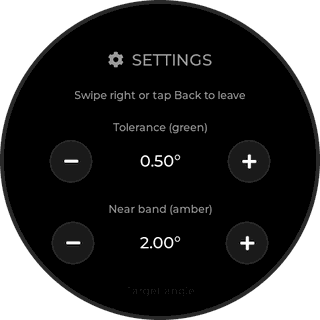
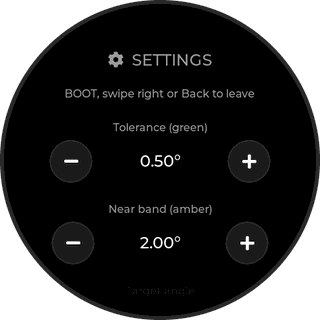
Document the BOOT button and the release path
Claude-Session: https://claude.ai/code/session_01YF7XT5Efzfgo2XwtGXLBEm

Changed region(s): [[0.1875, 0.2812, 0.8125, 0.3125]]

diff --git a/README.md b/README.md
@@ -40,7 +40,7 @@ training data (raw IMU and both microphones) for a future on-device model.
     points; steer it into the centre.
 - **Tolerance colours**: green within the tolerance (default 0.5°), amber
   within the near band (default 2.0°), white outside.
-- **Tap to zero** on the screen or in the app. Yaw comes from the gyro and
+- **Hold 1 s to zero** on the screen, or use the app. Yaw comes from the gyro and
   drifts, so the screen warns you to re-zero after 60 s (adjustable).
 - **Two calibrations**: a 6-position sensor (accelerometer) calibration and a
   mount calibration that finds the drill axis while you roll the drill with
@@ -49,7 +49,7 @@ training data (raw IMU and both microphones) for a future on-device model.
   optional power-off after a time in sleep; power-off at low battery. A
   running drill held still keeps the screen on, for up to 3 min after the
   last touch or movement.
-- **On-device settings** (hold 1 s) for tolerance, near band, target angle,
+- **On-device settings** (BOOT button) for tolerance, near band, target angle,
   the crosshair's direction (*Invert dot*), brightness, timeouts and
   Bluetooth.
 - **Bluetooth LE**: live angle and status notifications, settings as JSON,
@@ -167,7 +167,8 @@ for `DrillBalancer v...`, `QMI8658 6DOF 448.4 Hz` and `boot done` in the log.
 
 ### 2. Build and install the app
 
-There is no release APK yet; build it from source. Needs the Android SDK
+Install the APK from [Releases](https://github.com/Tropaion/Drill_Balancer/releases/latest),
+or build it from source. That needs the Android SDK
 (platform `android-37`, build-tools 36) and any JDK 17+. Set `sdk.dir` in
 `app/local.properties` or set `ANDROID_HOME`. Enable USB debugging on the
 phone; `adb devices` must list it.
@@ -180,12 +181,12 @@ cd app
 ### 3. First use
 
 1. Fix the board to the back of the drill, screen towards you.
-2. **Sensor calibration**: hold the screen for 1 s to open Settings, tap
+2. **Sensor calibration**: press the BOOT button to open Settings, tap
    *Calibrate sensor*, hold the device still on each of its six sides, then
    tap *Finish*.
 3. **Mount calibration**: put the bit in a hole, tap *Calibrate mount*,
    *Start*, roll the drill slowly at least 45° each way, then *Finish*.
-4. Hold the drill on your mark and **tap the screen to zero**. Swipe to
+4. Hold the drill on your mark and **hold the screen for 1 s to zero**. Swipe to
    change the mode.
 5. In the app, tap your `DrillBalancer-XXXX`. On the first change it asks
    you to pair: enter the 6-digit code shown on the device.
@@ -198,16 +199,17 @@ Full guide: [Getting Started](https://github.com/Tropaion/Drill_Balancer/wiki/Ge
 
 | Gesture | Level screen | Settings |
 |---|---|---|
-| Tap | Zero (shows "ZERO") | Press a button |
+| Hold 1 s | Zero (shows "ZERO") | Long press on a stepper repeats |
 | Swipe left / right | Next / previous mode | Right: back |
-| Hold 1 s | Open Settings | Long press on a stepper repeats |
-| Touch while dimmed | Only wakes the screen | Only wakes the screen |
+| Tap | Nothing | Press a button |
+| BOOT button | Open Settings | Back |
+| Touch or BOOT while dimmed | Only wakes the screen | Only wakes the screen |
 | Touch during a recorded take | Logged in the recording, nothing else; hold the REC pill 2 s to stop the take | Same |
 
 **Modes**
 - *Wall*: the dot is where the bit points: above the centre when it points
   too high, right of it when it has turned right since the zero (left/right
-  needs a zero; until then the screen says "Tap to zero for left/right").
+  needs a zero; until then the screen says "Hold to zero for left/right").
   Below: the error with a chevron for up or down, then the yaw; "re-zero"
   appears 60 s after the zero.
 - *Floor / ceiling*: the dot is a bubble and moves towards the higher side;
@@ -359,7 +361,6 @@ More: [Development and Testing](https://github.com/Tropaion/Drill_Balancer/wiki/
       come from the simulator so far)
 - [ ] An on-device model for the drilling phases, trained on the recorded
       data
-- [ ] Signed release APK
 
 Details: [Roadmap](https://github.com/Tropaion/Drill_Balancer/wiki/Roadmap).
 

diff --git a/app/README.md b/app/README.md
@@ -50,12 +50,50 @@ lint's "newer Gradle available" warning is expected.
 ```sh
 ./gradlew assembleDebug          # build/outputs/apk/debug/DrillBalancer-debug.apk
 ./gradlew installDebug           # build and install on a phone with USB debugging on
-./gradlew assembleRelease        # unsigned release APK (no signing config yet)
+./gradlew assembleRelease        # release APK, unsigned without the release key
 ./gradlew lintDebug
 ```
 
 For `installDebug`, enable *Developer options → USB debugging* on the
 phone, connect it and accept the RSA prompt. `adb devices` must list it.
+
+## Updates from GitHub
+
+The app asks GitHub for the latest release when it opens or comes back, and
+when a device connects (`update/`). The request has no login, and the data
+repo's token never reaches it. The answer is kept for 10 minutes. Offline or
+rate limited, nothing shows.
+
+- **Firmware:** after connecting, a notice on Live and Device says when the
+  release is newer than the board. *Download* fetches the image and opens the
+  Firmware screen with it loaded; the update starts from there as usual.
+- **App:** a notice on Connect and Device says when the release is newer than
+  the app. *Download* fetches the APK and opens Android's installer, which
+  asks first. The first time, Android sends you to *Install unknown apps*.
+  Debug builds never show this notice: their signature cannot update a
+  release install.
+- *Dismiss* hides a version until a newer one is out. Nothing starts without
+  a tap, and nothing interrupts a recording session.
+
+## Releases
+
+Versions live in `../VERSION`, for the firmware and the app. To release:
+
+1. Change `VERSION`, push to `main` and wait for CI.
+2. Tag that commit: `git tag vMAJOR.MINOR.PATCH && git push origin vMAJOR.MINOR.PATCH`.
+
+`.github/workflows/release.yml` then publishes `drillbalancer-<version>.bin`,
+the image CI built and tested for that commit, and a signed
+`drillbalancer-<version>.apk`. It refuses a tag that differs from `VERSION`, a
+commit that is not on `main`, and a commit without green CI. MINOR and PATCH
+stay below 100, because `versionCode` is `MAJOR * 10000 + MINOR * 100 + PATCH`.
+
+The signing key is four Actions secrets: `DB_RELEASE_KEYSTORE_B64`,
+`DB_RELEASE_STORE_PASSWORD`, `DB_RELEASE_KEY_ALIAS` and
+`DB_RELEASE_KEY_PASSWORD`. A signed build on a PC goes through
+`tools/ci/release_apk.sh` with the same names, or `DB_RELEASE_KEYSTORE` as a
+path, because that script keeps the passwords out of Gradle's caches. A lost
+key means every later update needs an uninstall.
 
 ## First connection and pairing
 

diff --git a/firmware/README.md b/firmware/README.md
@@ -94,8 +94,8 @@ All test code builds with `-Wall -Wextra -Werror -Wdouble-promotion -Wshadow`.
 ### UI preview
 
 `test_host/ui_preview` renders every screen to a PNG with the real UI
-sources, then runs touch and flow checks: tap, swipe, long press, wake
-taps on a dimmed screen, the settings debounce, the calibration flows, and
+sources, then runs touch and flow checks: tap, swipe, the hold to zero, the
+BOOT key, wake taps on a dimmed screen, the settings debounce, the calibration flows, and
 the REC pill (touches during a take, the 2 s hold that stops it).
 
 ```sh
@@ -274,8 +274,11 @@ when it ends.
   optional power-off timer. Power-off goes through the AXP2101.
 
 **ui**: LVGL 9.
-- The level screen has one view per mode. Tap zeroes, a swipe changes the
-  mode, and a 1 s hold opens the settings.
+- The level screen has one view per mode. A 1 s hold zeroes, a swipe changes
+  the mode, and a tap does nothing, so handling the drill cannot move the zero.
+- The BOOT button (GPIO0) opens the settings and leaves them. It does nothing
+  on the calibration guides, under an overlay or during a take, and it does
+  not wake deep sleep.
 - The other screens are the settings list and the two calibration guides.
   The settings list scrolls from anywhere on it; rows above and below the
   centred one narrow and fade so nothing is cut by the round panel.
